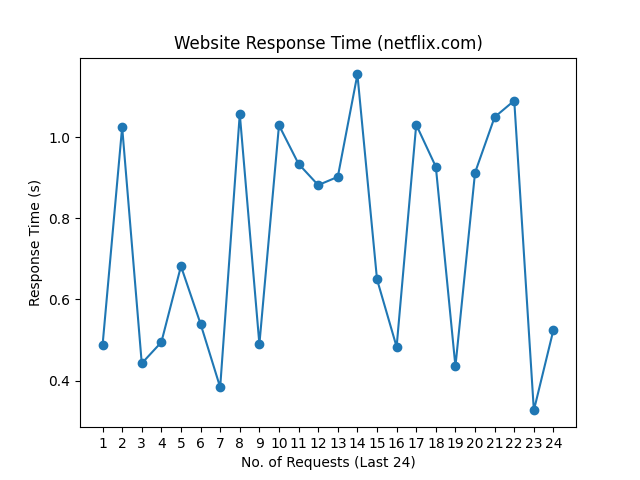
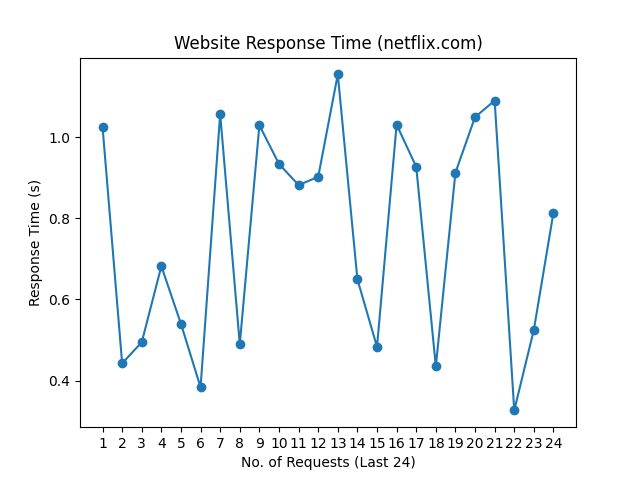
update README.md, history and graph

Changed region(s): [[0.1562, 0.125, 0.875, 0.875]]

diff --git a/README.md b/README.md
@@ -1,10 +1,10 @@
 # Web Monitoring
 
-Last Checked: 22/03/2024 08:59
+Last Checked: 23/03/2024 08:58
 
 | Website | Response Time (s) | Status | Avg Uptime (%) |
 |---------|-------------------|--------|----------------|
 | www.thiswebsiteisdown.net | 0 <br> <img src="graph/thiswebsiteisdown.net.png" alt="Graph" width="200" height="200">  | ❌ Down | 0.00 |
-| www.netflix.com | 0.525289 <br> <img src="graph/netflix.com.png" alt="Graph" width="200" height="200">  | ✅ Up | 100.00 |
-| www.google.com | 0.082101 <br> <img src="graph/google.com.png" alt="Graph" width="200" height="200">  | ✅ Up | 100.00 |
-| www.facebook.com | 4.881835 <br> <img src="graph/facebook.com.png" alt="Graph" width="200" height="200">  | ✅ Up | 100.00 |
+| www.netflix.com | 0.814051 <br> <img src="graph/netflix.com.png" alt="Graph" width="200" height="200">  | ✅ Up | 100.00 |
+| www.google.com | 0.101648 <br> <img src="graph/google.com.png" alt="Graph" width="200" height="200">  | ✅ Up | 100.00 |
+| www.facebook.com | 0.790588 <br> <img src="graph/facebook.com.png" alt="Graph" width="200" height="200">  | ✅ Up | 100.00 |
